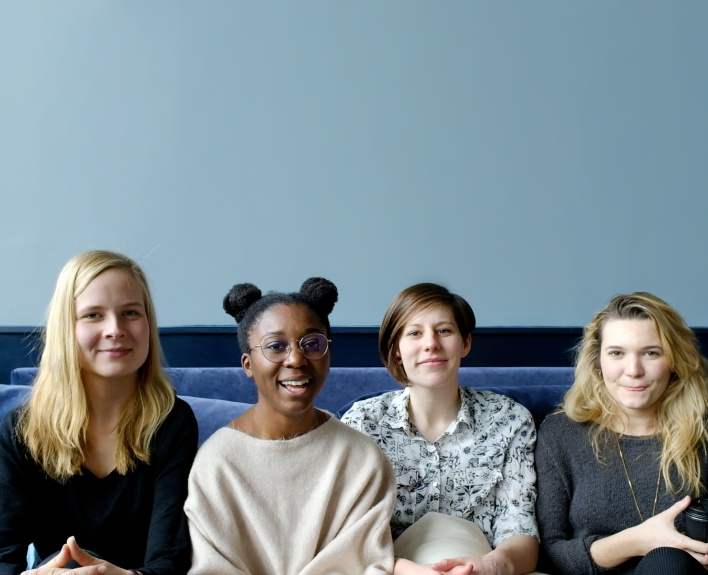
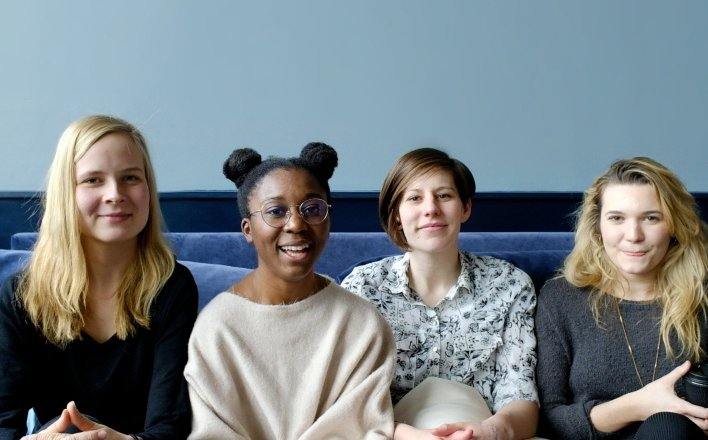
Replace community card collage with promo cards; black gradient washes
- Events and community hosts now use the PromoCards component; removed
  OverlapCards, TiltCard and the performers photo
- Promo card wash is a black gradient (darkest behind the heading) so
  photos keep their colour; rule recorded in CLAUDE.md
- Community hosts photo anchored to the bottom
- Testimonial dots centred across the page on mobile

diff --git a/src/content/old-oak.ts b/src/content/old-oak.ts
@@ -1,4 +1,4 @@
-import type { CaptionedImage, CircleImage, Cta, GalleryImage, PromoCard, Room, Testimonial } from "@/lib/types";
+import type { CircleImage, GalleryImage, PromoCard, Room, Testimonial } from "@/lib/types";
 
 const gallery = "/images/old-oak/gallery";
 const thumbs = `${gallery}/thumbs`;
@@ -27,18 +27,19 @@ export const oldOakBenefitsImages: { main: CircleImage; top: CircleImage; bottom
 
 const community = "/images/old-oak/community";
 
-export const oldOakCommunityCards: { cta: { image: CircleImage; link: Cta }; top: CaptionedImage; bottom: CaptionedImage } = {
-  cta: {
+// TODO: link targets
+export const oldOakCommunityCards: PromoCard[] = [
+  {
+    heading: "Unforgettable events",
     image: { src: `${community}/events-party.jpg`, alt: "Residents dancing at an Old Oak party" },
-    link: { label: "Join events", href: "#" },
+    cta: { label: "Join events", href: "#" },
   },
-  top: { src: `${community}/performers.jpg`, alt: "Costumed performers on stage at an Old Oak event", caption: "Lashings of fun to be had" },
-  bottom: {
-    src: `${community}/community-hosts.jpg`,
-    alt: "Four community hosts sitting together on a sofa",
-    caption: "Meet your community hosts who will guide you through life at Old Oak",
+  {
+    heading: "Meet your community hosts",
+    image: { src: `${community}/community-hosts.jpg`, alt: "Four community hosts sitting together on a sofa", position: "bottom" },
+    cta: { label: "Meet the team", href: "#" },
   },
-};
+];
 
 const rooms = "/images/old-oak/rooms";
 

diff --git a/src/components/sections/PromoCards.tsx b/src/components/sections/PromoCards.tsx
@@ -34,8 +34,9 @@ function PromoCardItem({ card }: { card: PromoCard }) {
         className="-z-10 object-cover"
         style={{ objectPosition: card.image.position ?? "center" }}
       />
-      {/* Darkens the photo so the white heading reads */}
-      <div aria-hidden="true" className="absolute inset-0 -z-10 bg-ink/45" />
+      {/* Black gradient behind the heading, clear through the middle so the photo keeps its
+          brightness, with a light lift at the bottom for the button */}
+      <div aria-hidden="true" className="absolute inset-0 -z-10 bg-linear-to-b from-black/65 via-black/10 via-50% to-black/30" />
 
       <h2 className="text-3xl font-bold leading-tight tracking-tight text-white">{card.heading}</h2>
       <Button href={card.cta.href} arrow className="w-full justify-center lg:w-auto lg:self-start">

diff --git a/src/app/page.tsx b/src/app/page.tsx
@@ -2,7 +2,6 @@ import Hero from "@/components/sections/Hero";
 import SplitIntro from "@/components/sections/SplitIntro";
 import Gallery from "@/components/sections/Gallery";
 import CollageSplit from "@/components/sections/CollageSplit";
-import OverlapCards from "@/components/sections/OverlapCards";
 import RoomCards from "@/components/sections/RoomCards";
 import FeatureGroups from "@/components/sections/FeatureGroups";
 import Testimonials from "@/components/sections/Testimonials";
@@ -70,7 +69,7 @@ export default function Home() {
         </p>
       </CollageSplit>
 
-      <OverlapCards {...oldOakCommunityCards} />
+      <PromoCards cards={oldOakCommunityCards} />
 
       <RoomCards
         heading="Explore the rooms"

diff --git a/src/components/sections/Testimonials.tsx b/src/components/sections/Testimonials.tsx
@@ -61,8 +61,8 @@ export default function Testimonials({ heading, intro, testimonials }: Testimoni
           <li aria-hidden="true" className="w-[calc(100%-18.75rem-2rem)] shrink-0" />
         </ul>
 
-        {/* Dots: centred under the first portrait on mobile, under the page on desktop */}
-        <div className="mt-6 flex w-75 justify-center lg:mt-12 lg:w-full">
+        {/* Dots, centred across the page */}
+        <div className="mt-6 flex justify-center lg:mt-12">
           {testimonials.map((t, i) => (
             <button
               key={t.name + i}

diff --git a/src/lib/types.ts b/src/lib/types.ts
@@ -21,13 +21,6 @@ export type CircleImage = {
   position?: string;
 };
 
-/** A photo with a caption, e.g. in a card. `position` is a CSS object-position. */
-export type CaptionedImage = {
-  src: string;
-  alt: string;
-  caption: string;
-  position?: string;
-};
 
 /** Which icon a room feature tile shows. */
 export type RoomFeatureIcon = "bathroom" | "kitchen" | "size" | "room";

diff --git a/src/app/globals.css b/src/app/globals.css
@@ -6,7 +6,6 @@
   --color-cream: #f0eee4;
   --color-cream-dark: #e6e3d5;
   --color-ash: #aaaaaa;
-  --drop-shadow-card: 0 20px 60px rgb(0 0 0 / 0.3);
   --ease-smooth: cubic-bezier(0.22, 1, 0.36, 1);
   --font-sans: var(--font-circular), ui-sans-serif, system-ui, sans-serif;
 }

diff --git a/CLAUDE.md b/CLAUDE.md
@@ -18,6 +18,7 @@ Next.js (App Router) + Tailwind v4 rebuild of The Collective site from Figma (14
 - Footer/CTA buttons in content blocks go full width below `lg`.
 - All buttons are 48px tall (`Button` has colour variants only, no sizes).
 - Wrap block content in `Container` for the 1440px max width and standard gutters.
+- Washes over photos (to make text readable) are **black gradients only** — never flat fills, and never the brand `ink` colour (it muddies photos). Darken where the text sits and keep the rest of the photo clear.
 - **Use Tailwind's scales for everything, not raw Figma values** (spacing, sizes, text size, leading, tracking, radii, max-widths), matching the Figma as closely as the scale allows. The Figma files predate auto layout and are full of one-off numbers (30px, 31px, 117px…): round to the nearest scale step (`mt-8`, `gap-6`, `text-4xl`, `leading-relaxed`, `rounded-2xl`…). Recurring design values become theme tokens in `globals.css` (e.g. `drop-shadow-card`); shared text styles live in `src/lib/styles.ts`. Arbitrary values are only for layout geometry (column widths, collage/card positions, aspect ratios, gradients).
 - Every content block uses the `Section` component (`src/components/ui/Section.tsx`) for its vertical padding — `py-12 lg:py-20` — so spacing between blocks is consistent. Don't add per-block section padding.
 
